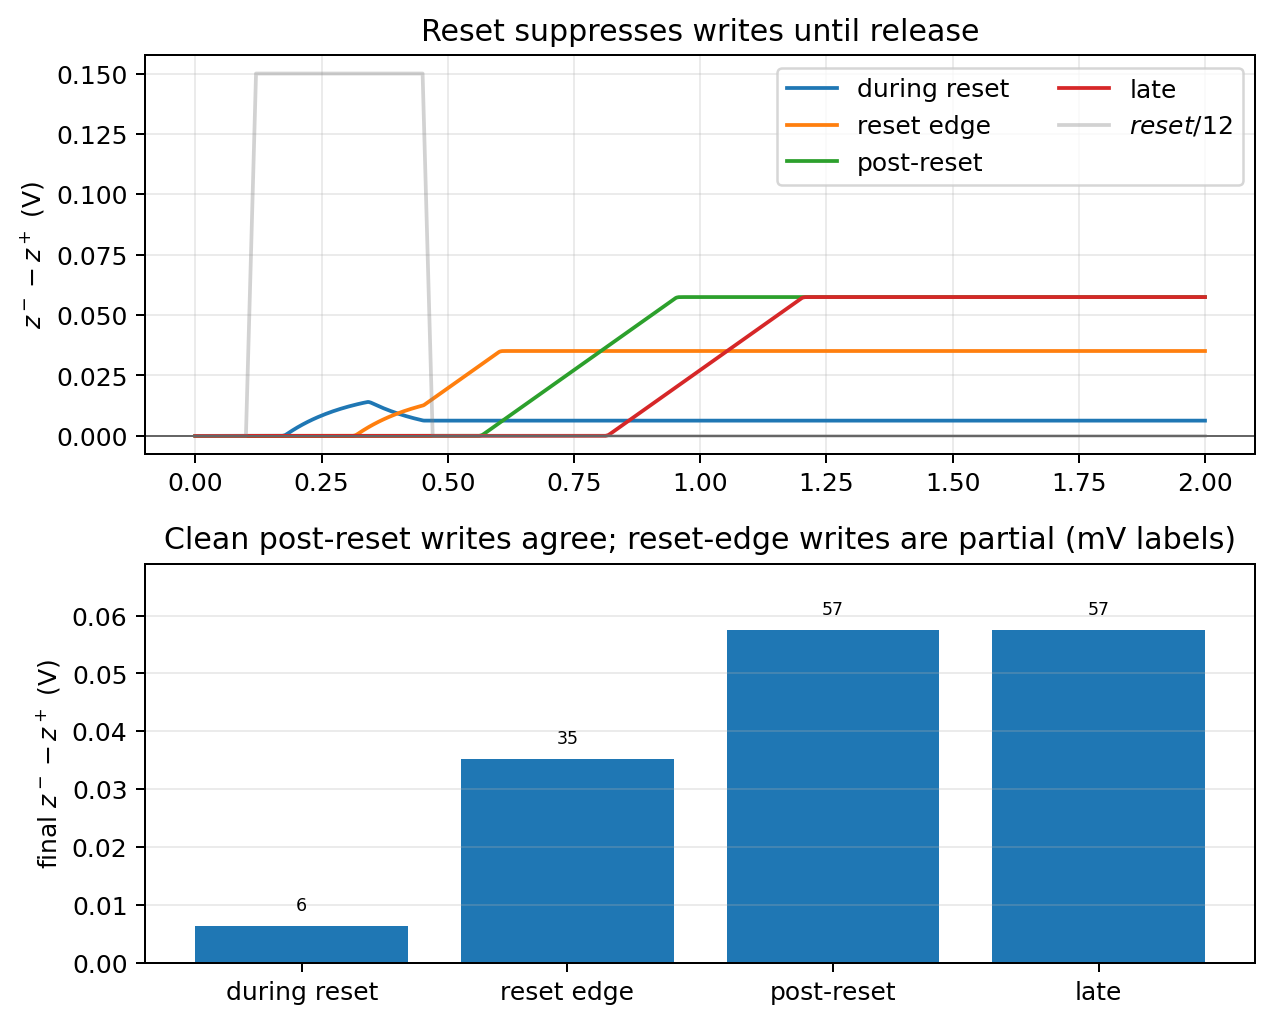
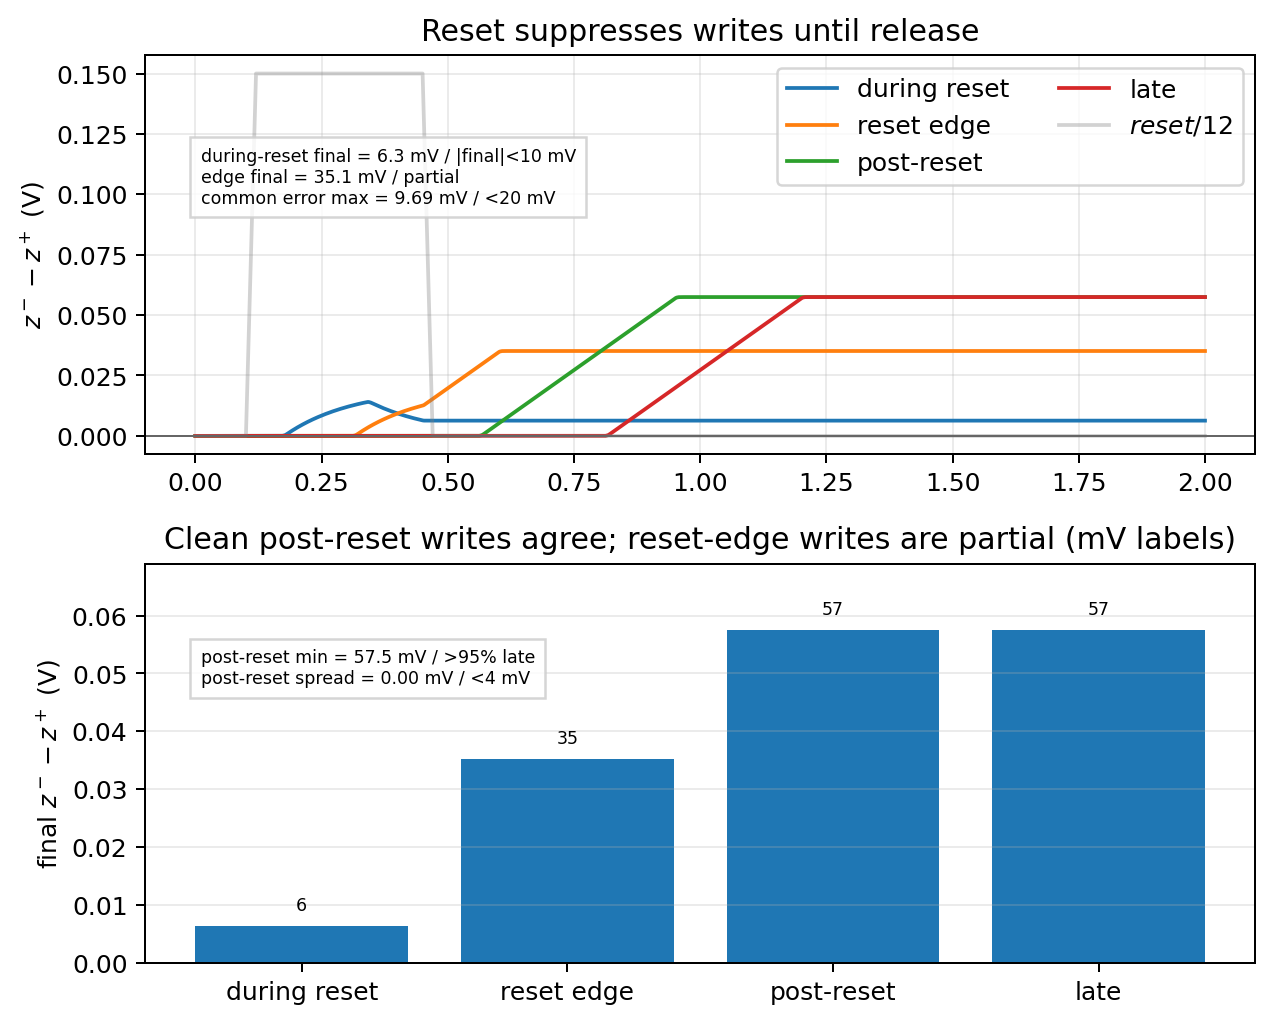
Annotate reset timing margins

Changed region(s): [[0.1532, 0.1213, 0.4595, 0.2123], [0.1532, 0.6067, 0.4289, 0.6977]]

diff --git a/spice/run_mos_cell_characterization.py b/spice/run_mos_cell_characterization.py
@@ -16528,6 +16528,10 @@ quit
     require(nmos_residual[-1] > 0.15, "400 ns NMOS-only reset should still leave visible differential residue")
     require(np.max(np.abs(tg_common - 0.9)) < 0.005, "transmission-gate reset should preserve reset common mode")
     require(np.max(np.abs(nmos_common - 0.9)) > 0.03, "NMOS-only reset should show common-mode error")
+    tg_long_residual = float(tg_residual[-1])
+    nmos_long_residual = float(nmos_residual[-1])
+    tg_common_error_max = float(np.max(np.abs(tg_common - 0.9)))
+    nmos_common_error_max = float(np.max(np.abs(nmos_common - 0.9)))
 
     write_timing_data = run_ngspice(write_timing_deck, "mos_reset_write_timing")
     wt, write_timing_cols = load_wrdata(write_timing_data, 3 * len(write_timing_cases) + 1)
@@ -16550,7 +16554,10 @@ quit
     require(write_final[1] < 0.95 * write_final[-1], "reset-edge write should remain below a clean post-reset write")
     require(np.min(write_final[2:]) > 0.95 * write_final[-1], "post-reset writes should reach the full signed state")
     require(np.max(write_final[2:]) - np.min(write_final[2:]) < 0.004, "post-reset write timings should agree")
-    require(np.max(np.abs([wat(0.50e-6, common_case) - 0.9 for common_case in write_common])) < 0.02, "reset/write timing copies should leave reset near common mode")
+    write_common_error_max = float(np.max(np.abs([wat(0.50e-6, common_case) - 0.9 for common_case in write_common])))
+    require(write_common_error_max < 0.02, "reset/write timing copies should leave reset near common mode")
+    write_post_min = float(np.min(write_final[2:]))
+    write_post_spread = float(np.max(write_final[2:]) - np.min(write_final[2:]))
 
     mismatch_data = run_ngspice(mismatch_deck, "mos_reset_mismatch")
     mt, mismatch_cols = load_wrdata(mismatch_data, 2 * len(mismatch_cases) + 1)
@@ -16643,6 +16650,17 @@ quit
     sweep_axes[0].set_ylabel("$|z^- - z^+|$ after reset (V)")
     sweep_axes[0].set_title("Complementary reset gives usable pulse-width margin")
     sweep_axes[0].grid(True, which="both", alpha=0.25)
+    sweep_axes[0].text(
+        0.06,
+        0.20,
+        "TG 400 ns residual = "
+        f"{1e3 * tg_long_residual:.1f} mV / <50 mV\n"
+        "NMOS-only 400 ns residual = "
+        f"{1e3 * nmos_long_residual:.0f} mV / >150 mV",
+        transform=sweep_axes[0].transAxes,
+        fontsize="x-small",
+        bbox={"facecolor": "white", "alpha": 0.82, "edgecolor": "0.8"},
+    )
     sweep_axes[0].legend()
     sweep_axes[1].plot(widths_us, nmos_common, "o-", label="NMOS-only common mode")
     sweep_axes[1].plot(widths_us, tg_common, "s--", label="transmission-gate common mode")
@@ -16651,6 +16669,17 @@ quit
     sweep_axes[1].set_ylabel("post-reset common mode (V)")
     sweep_axes[1].set_title("Transmission gate preserves common mode while clearing both rails")
     sweep_axes[1].grid(True, alpha=0.25)
+    sweep_axes[1].text(
+        0.06,
+        0.70,
+        "TG max common error = "
+        f"{1e3 * tg_common_error_max:.2f} mV / <5 mV\n"
+        "NMOS-only max common error = "
+        f"{1e3 * nmos_common_error_max:.1f} mV / >30 mV",
+        transform=sweep_axes[1].transAxes,
+        fontsize="x-small",
+        bbox={"facecolor": "white", "alpha": 0.82, "edgecolor": "0.8"},
+    )
     sweep_axes[1].legend()
     sweep_fig.tight_layout()
     save_plot(sweep_fig, "mos_reset_width_ngspice")
@@ -16663,6 +16692,19 @@ quit
     write_timing_axes[0].set_ylabel("$z^- - z^+$ (V)")
     write_timing_axes[0].set_title("Reset suppresses writes until release")
     write_timing_axes[0].grid(True, alpha=0.25)
+    write_timing_axes[0].text(
+        0.05,
+        0.63,
+        "during-reset final = "
+        f"{1e3 * write_final[0]:.1f} mV / |final|<10 mV\n"
+        "edge final = "
+        f"{1e3 * write_final[1]:.1f} mV / partial\n"
+        "common error max = "
+        f"{1e3 * write_common_error_max:.2f} mV / <20 mV",
+        transform=write_timing_axes[0].transAxes,
+        fontsize="x-small",
+        bbox={"facecolor": "white", "alpha": 0.82, "edgecolor": "0.8"},
+    )
     write_timing_axes[0].legend(loc="upper right", ncol=2)
     labels = [label for _name, label, _start_us, _end_us in write_timing_cases]
     write_timing_axes[1].bar(labels, write_final)
@@ -16673,6 +16715,17 @@ quit
     write_timing_axes[1].set_ylabel("final $z^- - z^+$ (V)")
     write_timing_axes[1].set_title("Clean post-reset writes agree; reset-edge writes are partial (mV labels)")
     write_timing_axes[1].grid(True, axis="y", alpha=0.25)
+    write_timing_axes[1].text(
+        0.05,
+        0.70,
+        "post-reset min = "
+        f"{1e3 * write_post_min:.1f} mV / >95% late\n"
+        "post-reset spread = "
+        f"{1e3 * write_post_spread:.2f} mV / <4 mV",
+        transform=write_timing_axes[1].transAxes,
+        fontsize="x-small",
+        bbox={"facecolor": "white", "alpha": 0.82, "edgecolor": "0.8"},
+    )
     write_timing_fig.tight_layout()
     save_plot(write_timing_fig, "mos_reset_write_timing_ngspice")
 

diff --git a/engineering_log.md b/engineering_log.md
@@ -2,6 +2,18 @@
 
 ## 2026-05-25
 
+- Clarified the MOS reset width and write-timing plots.  The reset decks
+  already asserted that a complementary transmission-gate reset beats an
+  NMOS-only reset, preserves common mode, suppresses writes while reset is
+  active, allows a partial reset-edge write, and gives matching clean
+  post-reset writes.  The regenerated `mos_reset_width_ngspice` and
+  `mos_reset_write_timing_ngspice` figures now label those margins directly:
+  a \(400\) ns transmission-gate reset leaves \(39.3\) mV differential
+  residue versus a \(50\) mV target while the NMOS-only copy remains at
+  \(223\) mV, transmission-gate common-mode error stays at \(0.64\) mV
+  versus a \(5\) mV budget, a during-reset write leaves only \(6.3\) mV,
+  and clean post-reset writes both land at \(57.5\) mV with below-display
+  spread.
 - Family-completed the remaining low-level MOS writer plots.  The analog-gate,
   PMOS-mismatch, alternating-readback, and retention decks already asserted
   analog gate monotonicity, W+/W- symmetry, inactive-rail quietness, mismatch
